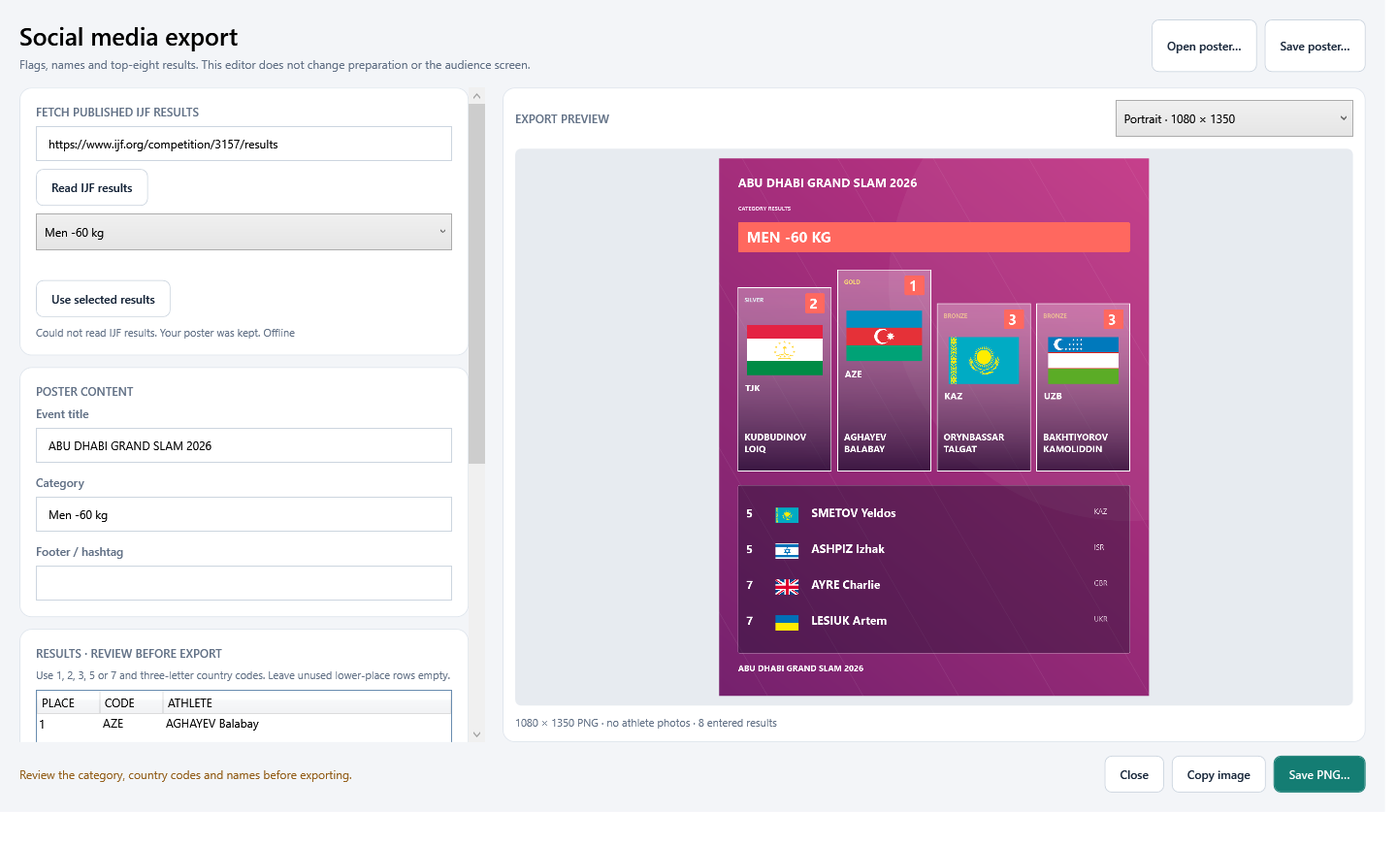
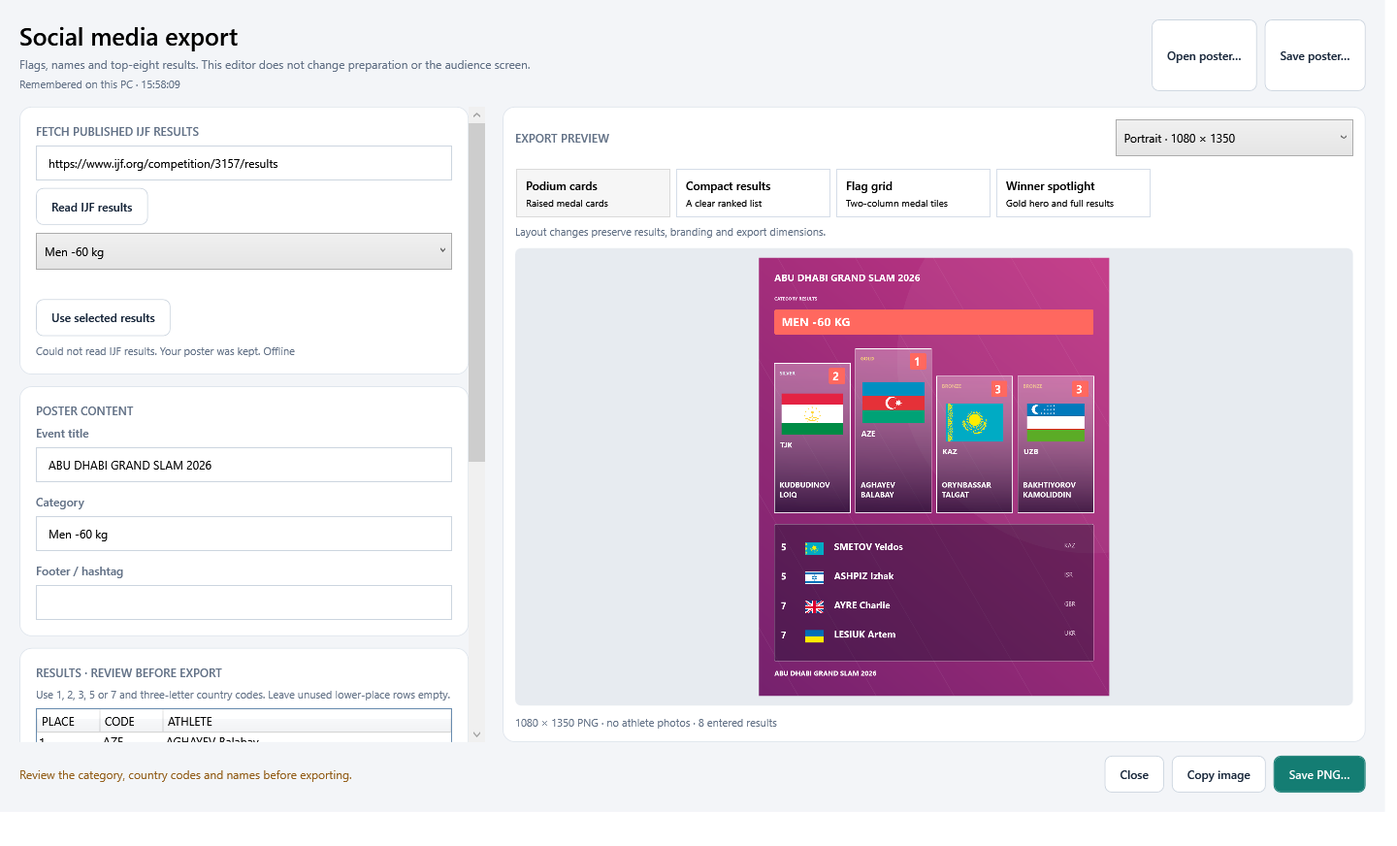
Publish v0.19 guide with remembered social posts and four layouts

diff --git a/README.md b/README.md
@@ -10,18 +10,18 @@
 </p>
 
 <p align="center">
-  <img alt="Version 0.17.0 Preview" src="https://img.shields.io/badge/version-0.17.0_Preview-C9A65A">
+  <img alt="Version 0.19.0 Preview" src="https://img.shields.io/badge/version-0.19.0_Preview-C9A65A">
   <img alt="Windows x64" src="https://img.shields.io/badge/platform-Windows_x64-132047">
   <img alt="Offline" src="https://img.shields.io/badge/operation-offline-147D73">
-  <img alt="582 software checks passed" src="https://img.shields.io/badge/software_checks-582_passed-147D73">
+  <img alt="668 software checks passed" src="https://img.shields.io/badge/software_checks-668_passed-147D73">
 </p>
 
 <p align="center">
-  <a href="https://github.com/YOUNESMAAFI/judo-ceremony-releases/releases/download/v0.17.0/JudoCeremony-0.17-win-x64.zip"><strong>Download for Windows</strong></a>
+  <a href="https://github.com/YOUNESMAAFI/judo-ceremony-releases/releases/download/v0.19.0/JudoCeremony-0.19-win-x64.zip"><strong>Download for Windows</strong></a>
   &nbsp; | &nbsp;
-  <a href="https://github.com/YOUNESMAAFI/judo-ceremony-releases/releases/tag/v0.17.0">Release notes &amp; downloads</a>
+  <a href="https://github.com/YOUNESMAAFI/judo-ceremony-releases/releases/tag/v0.19.0">Release notes &amp; downloads</a>
   &nbsp; | &nbsp;
-  <a href="https://github.com/YOUNESMAAFI/judo-ceremony-releases/releases/download/v0.17.0/Judo-Ceremony-0.7-Audit-Searchable.pdf">Searchable flag audit</a>
+  <a href="https://github.com/YOUNESMAAFI/judo-ceremony-releases/releases/download/v0.19.0/Judo-Ceremony-0.7-Audit-Searchable.pdf">Searchable flag audit</a>
 </p>
 
 ---
@@ -32,7 +32,7 @@ Judo Ceremony Desk gives the operator a preparation workspace and a separate cer
 
 | Capability | What you can do |
 | --- | --- |
-| Social media exports | Create portrait, square and story PNGs with flags, athlete names and top-eight results; no athlete photos. |
+| Social media exports | Four layouts in portrait, square and story formats, with flags, names and top-eight results; automatically remembered per event and category. No athlete photos. |
 | Athlete names | Fetch IJF medal athletes, review names and optionally include them in preparation images and social posters. Ceremony output always omits athlete names. |
 | Ceremony queue | Set the order for each day, load the next podium and mark ceremonies finished. |
 | Version checks | See the installed version and check for a newer published Windows build. |
@@ -51,7 +51,7 @@ Judo Ceremony Desk gives the operator a preparation workspace and a separate cer
 | Anthem playback | Play local instrumental recordings independently or link them to flag controls. |
 | Offline use | Use bundled flag artwork and the included Windows runtime without an internet connection. |
 
-**Version 0.17.0 is a preview for review and rehearsal.** Software checks and package checks pass; rehearse the actual event computer, HDMI screen and staff-image workflow before live use. Offline anthem playback is included, with separate controls and optional linking to flags.
+**Version 0.19.0 is a preview for review and rehearsal.** Software checks and package checks pass; rehearse the actual event computer, HDMI screen and staff-image workflow before live use. Offline anthem playback is included, with separate controls and optional linking to flags.
 
 ## Contents
 
@@ -63,20 +63,20 @@ Download the Windows ZIP below, extract the entire folder and open `JudoCeremony
 
 | File | Use |
 | --- | --- |
-| [JudoCeremony-0.17-win-x64.zip](https://github.com/YOUNESMAAFI/judo-ceremony-releases/releases/download/v0.17.0/JudoCeremony-0.17-win-x64.zip) | Complete portable Windows application, runtime, assets, examples and documentation. |
-| [Flags-PNG.zip](https://github.com/YOUNESMAAFI/judo-ceremony-releases/releases/download/v0.17.0/Flags-PNG.zip) | Individual horizontal and reference-backed vertical flag PNGs. |
-| [Searchable audit PDF](https://github.com/YOUNESMAAFI/judo-ceremony-releases/releases/download/v0.17.0/Judo-Ceremony-0.7-Audit-Searchable.pdf) | The flag reference review, differences table and full visual comparisons. |
-| [Release notes](https://github.com/YOUNESMAAFI/judo-ceremony-releases/releases/download/v0.17.0/RELEASE-NOTES.md) | Changes, compatibility and validation for this release. |
-| [README.md](https://github.com/YOUNESMAAFI/judo-ceremony-releases/releases/download/v0.17.0/README.md) | A downloadable copy of this guide. |
-| [Software check result](https://github.com/YOUNESMAAFI/judo-ceremony-releases/releases/download/v0.17.0/RELEASE-0.17-checks.txt) | Confirmation of the 582 passing software checks. |
-| [SHA256SUMS.txt](https://github.com/YOUNESMAAFI/judo-ceremony-releases/releases/download/v0.17.0/SHA256SUMS.txt) | SHA-256 hashes for the release downloads. |
+| [JudoCeremony-0.19-win-x64.zip](https://github.com/YOUNESMAAFI/judo-ceremony-releases/releases/download/v0.19.0/JudoCeremony-0.19-win-x64.zip) | Complete portable Windows application, runtime, assets, examples and documentation. |
+| [Flags-PNG.zip](https://github.com/YOUNESMAAFI/judo-ceremony-releases/releases/download/v0.19.0/Flags-PNG.zip) | Individual horizontal and reference-backed vertical flag PNGs. |
+| [Searchable audit PDF](https://github.com/YOUNESMAAFI/judo-ceremony-releases/releases/download/v0.19.0/Judo-Ceremony-0.7-Audit-Searchable.pdf) | The flag reference review, differences table and full visual comparisons. |
+| [Release notes](https://github.com/YOUNESMAAFI/judo-ceremony-releases/releases/download/v0.19.0/RELEASE-NOTES.md) | Changes, compatibility and validation for this release. |
+| [README.md](https://github.com/YOUNESMAAFI/judo-ceremony-releases/releases/download/v0.19.0/README.md) | A downloadable copy of this guide. |
+| [Software check result](https://github.com/YOUNESMAAFI/judo-ceremony-releases/releases/download/v0.19.0/RELEASE-0.19-checks.txt) | Confirmation of the 668 passing software checks. |
+| [SHA256SUMS.txt](https://github.com/YOUNESMAAFI/judo-ceremony-releases/releases/download/v0.19.0/SHA256SUMS.txt) | SHA-256 hashes for the release downloads. |
 
 **Platform:** Windows x64. Windows 11 x64 is the development and test platform. The application ZIP includes the .NET runtime; a separate .NET installation is not required for normal use.
 
 To check a downloaded file in PowerShell, run the command below and compare its hash with the matching entry in `SHA256SUMS.txt`:
 
 ```powershell
-Get-FileHash -Algorithm SHA256 .\JudoCeremony-0.17-win-x64.zip
+Get-FileHash -Algorithm SHA256 .\JudoCeremony-0.19-win-x64.zip
 ```
 
 ## Quick start
@@ -93,7 +93,7 @@ Sample tournament files are included in `examples`, including standard medals, a
 
 ## Workspaces
 
-The desk has six workspaces. Version 0.14 adds **6 Final block** for loading the known matchups and waiting for published medals.
+The desk has seven workspaces. **7 Create social post** follows **6 Final block** and keeps remembered posters organised by event and category.
 
 ### 1 · Preparation
 
@@ -149,6 +149,16 @@ Use **Refresh results**, or check **Refresh every 30 seconds while this tab is o
 
 Select a readable published category, review any unusual layout, and click **Prepare selected podium**. This fills Preparation. Load the prepared ceremony to the audience when ready. Unsupported draw formats or missing country codes require review; countries and medals are never guessed. Saved plans work offline; importing and refreshing require internet. See [full operation, limits and compatibility](docs/RELEASE-0.14.md).
 
+### 7 · Create social post
+
+Select a day and category, then **Create / edit social post…**. Results and poster settings are remembered automatically on this PC, separately for each event, division and category.
+
+![Social posts tab with remembered category results](images/social-posts-tab.png)
+
+Both category tables show **green for Ready** four-medal podiums and **grey for Partial or No results**. Fifth and seventh places are optional. A valid no-gold, two-silver podium can be green. Shorter podiums remain exportable.
+
+![Final-block category readiness colours](images/category-readiness.png)
+
 ## Run today's ceremony queue
 
 In **6 Final block**, choose **Today** or a dated day, then **Ceremony queue**. **Add this day** includes its scheduled categories; **Add preparation** adds a manually prepared podium. Use **Move up**, **Move down** and **Remove** to arrange the order. Adding a day twice does not duplicate it.
@@ -161,13 +171,13 @@ Statuses include Waiting, Ready, Review layout, Loaded, Playing, Paused, Awaitin
 
 ## Installed version and updates
 
-The title bar and **v0.17.0 · Updates** button identify the running build. Open the version window and choose **Check for updates**. It reads published Windows releases, including previews, and shows a newer version when available. Drafts and unrelated downloads are ignored.
+The title bar and **v0.19.0 · Updates** button identify the running build. Open the version window and choose **Check for updates**. It reads published Windows releases, including previews, and shows a newer version when available. Drafts and unrelated downloads are ignored.
 
-![Update dialog from v0.15; the same manual check is available in v0.17](images/version-updates.png)
+![Update dialog from v0.15; the same manual check is available in v0.19](images/version-updates.png)
 
 **Download newer version** opens the official release page in your browser. Close the older app, extract the new Windows ZIP and open its EXE. The check is manual, requires internet and does not install software. A failed check reports unavailable and retains its last successful check time. The window can remain open while you use the operator desk.
 
-See [complete operation, limits and compatibility](docs/RELEASE-0.17.md).
+See [complete operation, limits and compatibility](docs/RELEASE-0.19.md).
 
 ## Portable event backup
 
@@ -186,7 +196,7 @@ The manifest records the size and SHA-256 of the event and each included recordi
 
 ## Restore on another PC
 
-1. Install or extract Judo Ceremony Desk **0.17 or newer** on the other Windows PC.
+1. Install or extract Judo Ceremony Desk **0.19 or newer** on the other Windows PC.
 2. Select **Event backup… → Restore backup → Choose backup ZIP…**.
 3. Review the event, saved-category count and included recordings.
 4. Leave **Replace matching local recordings with backup versions** unchecked to keep existing local overrides. Identical recordings are kept automatically. If replacement is selected, it changes the shared recording for that country across events on that PC; stop the anthem and reset an active flag rise first.
@@ -202,7 +212,7 @@ Backups and expanded content are limited to **2 GB**, event JSON to **25 MB**, a
 
 An interrupted or failed export keeps any existing destination ZIP. A normal restore failure rolls back recording changes, the previous session and history index, and removes its partial new event. The source backup ZIP is never modified. If an external disk/permission problem also prevents rollback, the error identifies retained recovery copies rather than deleting them.
 
-Backups use **backup format 1** with a **schema 8** event. Schema 8 files require 0.16 or newer; use 0.17 for social exports and the audience-name restriction. Earlier supported backups remain readable. Separate `.judo-social.json` poster projects are not included in event backups. Ordinary tournament files do not contain imported audio files.
+Backups use **backup format 1** with a **schema 8** event. Schema 8 files require 0.16 or newer; use 0.19 for social exports and the audience-name restriction. Earlier supported backups remain readable. Separate `.judo-social.json` poster projects are not included in event backups. Ordinary tournament files do not contain imported audio files.
 
 ## Validation
 
@@ -249,7 +259,7 @@ Results require internet access to download. Applied countries, medals and saved
 
 ## Compatibility and verification
 
-Version 0.17 retains **schema 8** for event data. Schema 1–7 files still open with their migration defaults. Version 0.16 can read schema 8; versions earlier than 0.16 reject it. Use 0.17 to keep athlete names off ceremony output and to edit social posters. Athlete names are stored with medal results, saved categories and completed podiums. Top-eight poster results are saved separately in poster projects, not promoted into ceremony medals.
+Version 0.19 retains **schema 8** for event data. Schema 1–7 files still open with their migration defaults. Version 0.16 can read schema 8; versions earlier than 0.16 reject it. Use 0.19 to keep athlete names off ceremony output and to edit social posters. Athlete names are stored with medal results, saved categories and completed podiums. Top-eight poster results are saved separately in poster projects, not promoted into ceremony medals.
 
 Verification includes recorded public IJF result facts and structure, real live result import, aliases, same-country medals, both bronze entries, no-gold/two-silver and short podiums, missing/unknown/conflicting results, rejected links/redirects, save/reopen/category isolation, preview Apply/Cancel, readiness file tampering and preservation of loaded flags/audio. The recorded fixture contains 14 completed Dushanbe 2026 individual categories. Country, flag and anthem assets are unchanged from 0.11.
 
@@ -299,22 +309,22 @@ Importing requires internet access. Saved participation lists and continental fi
 
 Each event keeps its own region, participation restriction, selected countries, event details and import provenance. Importing details updates the current event; start **New event** first when importing a different tournament. The category presets can be replaced by the imported list while saved category results, the selected category, entered medals and the loaded audience ceremony remain intact. Categories missing from the overview are kept as they are. Review the suggested category group before saving; Senior is the default unless the title identifies Junior or Cadet. Categories within that event share the competition list. A new event starts Worldwide with no participants; reopening a historical event restores its own settings.
 
-Version 0.17 continues to save **schema 8**. Version 0.16 and newer can read that event format; 0.17 includes social exports and the audience-name restriction. Schema 1–7 files retain their existing migration support. Opening a 0.16 event disables its audience-name setting while preserving athlete data and the preparation-image setting. Close older versions before launching this build.
+Version 0.19 continues to save **schema 8**. Version 0.16 and newer can read that event format; 0.19 includes social exports and the audience-name restriction. Schema 1–7 files retain their existing migration support. Opening a 0.16 event disables its audience-name setting while preserving athlete data and the preparation-image setting. Close older versions before launching this build.
 
 
 ![Competition participant editor](images/competition-countries.png)
 
 ## Social media exports
 
-Choose **Preparation → Social export…**, beside Copy image. The separate editor starts with the prepared medal countries, names, event title, background image and logos. It can also be opened before a podium is prepared.
+Open **7 Create social post**, immediately after Final block. The **Preparation → Social export…** shortcut also takes you there. Choose a day and category, then **Create / edit social post…**. The editor restores a remembered poster first, otherwise starts with available category medals. You can enter results before a podium is prepared.
 
-![Social poster editor with the IJF link at the top](images/social-editor.png)
+![Social editor with layout choices and the IJF link](images/social-editor.png)
 
-1. Paste an IJF competition link at the top and choose **Read IJF results**.
-2. Select a published category, then **Use selected results** to fill the four medal entries and the two 5th/two 7th places. Reading alone retains your poster. The chosen event title stays unless it was blank.
-3. Review or edit the place, three-letter country code and athlete name in each row. Leave unused rows empty. **Include 5th and 7th places** controls the lower section.
-4. Choose a format and a **Magenta**, **Navy** or **Teal** palette. Edit the footer/hashtag or add a background image and logo.
-5. Choose **Copy image** or **Save PNG…**. The preview and saved file use the exact selected dimensions.
+1. Paste an IJF competition link and choose **Read IJF results**.
+2. Select a published category, then **Use selected results** to fill medal entries and available 5th/7th places. Review country codes, names and the source before exporting.
+3. Choose **Podium cards**, **Compact results**, **Flag grid** or **Winner spotlight** above the preview. Changing layouts keeps the entered results and branding. A no-gold spotlight shows the medallists without choosing a winner.
+4. Choose the dimensions, **Magenta**, **Navy** or **Teal** palette, footer/hashtag, background and logos. **Include 5th and 7th places** controls lower placings.
+5. Use **Copy image** or **Save PNG…** at the selected resolution.
 
 | Format | PNG dimensions |
 | --- | --- |
@@ -322,13 +332,19 @@ Choose **Preparation → Social export…**, beside Copy image. The separate edi
 | Square post | 1080 × 1080 |
 | Story | 1080 × 1920 |
 
-![Example portrait export with flags and top-eight results](images/social-portrait.png)
+![Example flag-grid portrait export](images/social-flag-grid.png)
 
-These are rehearsal illustrations. This version contains **no athlete photos**. The poster uses horizontal flag artwork and supports shorter or no-gold/two-silver podiums without inventing missing medals. Unknown countries, invalid medal counts, unpublished results and conflicting top-eight copies need correction or review before use. Long names may use an ellipsis visually; their full text remains editable.
+These images use illustrative rehearsal data. This version contains **no athlete photos**. Posters use horizontal flags and support shorter or no-gold/two-silver podiums. Unknown countries, conflicting top-eight copies and invalid rows require review. Fifth and seventh places never become ceremony medals.
 
-**Save poster…** stores a separate `.judo-social.json` project with all results, titles, format, theme, source/fetch metadata and embedded background/logo images, up to 25 MB. **Open poster…** restores it offline. Poster projects require 0.17 and are separate from event files and portable event backups; keep them alongside a backup when moving PCs. They contain athlete names.
+### Remembered results
 
-Editing or importing a social poster does not change Preparation, queue entries, the loaded ceremony or its anthem. Fifth and seventh places remain outside the ceremony medal list. See [social export operation and limits](docs/RELEASE-0.17.md).
+Valid edits save automatically on this PC, including results, layout, dimensions, footer and branding. The editor shows the saved time. Switching categories, reopening the editor or restarting restores that category's own poster. Different events and divisions remain separate. Partial and empty categories stay grey; four usable medal entries turn green, without requiring 5th/7th places.
+
+Invalid or incomplete edits retain the last valid saved poster. Remembered posts take priority over refreshed preparation/final-block data; use the editor's IJF import to deliberately update them. Applying another imported category saves it under that category. Editing the visible heading keeps the selected category's identity. **Open poster…** replaces the selected category's draft.
+
+**Save poster…** exports a separate `.judo-social.json` project with results, layout, titles, dimensions, source/fetch metadata and embedded artwork, up to 25 MB. Use it when moving PCs: remembered social posts and poster projects are **not included in event backups**. Saved format-2 projects need 0.18 or newer; format-1 projects still open. Files contain athlete names.
+
+Editing social posts does not change Preparation, queue entries, the loaded ceremony or its anthem. See [social posts, local storage and compatibility](docs/RELEASE-0.19.md).
 
 ## Optional athlete names
 
@@ -548,14 +564,15 @@ Event history stays on this computer. Export a tournament file to move one event
 | --- | --- |
 | Current event | `%LOCALAPPDATA%\JudoCeremony\last-tournament.json` |
 | Event history | `%LOCALAPPDATA%\JudoCeremony\events\` |
+| Remembered social posts | `%LOCALAPPDATA%\JudoCeremony\social-posts\` |
 
 If the current autosave cannot be read, the original is preserved in an `.invalid-...` recovery copy and the app reports the problem. Close older versions before starting another build; the session lock prevents simultaneous copies from writing to the same saved session.
 
 ### File compatibility
 
-Version 0.17 keeps **schema 8**, preserving athlete names, preparation-image settings, ceremony order, completed podiums, final-block plans, country filters, participant lists and per-category results. Versions earlier than 0.16 reject schema 8. Use 0.17 for social exports and the audience-name restriction.
+Version 0.19 keeps **schema 8**, preserving athlete names, preparation-image settings, ceremony order, completed podiums, final-block plans, country filters, participant lists and per-category results. Versions earlier than 0.16 reject schema 8. Use 0.19 for social exports and the audience-name restriction.
 
-Schema 1–7 events still open with their existing migration defaults; stored queue data and final-block plans are retained. Athlete names remain editable and available for preparation images, while ceremony output ignores any older enabled name setting. Social poster format 1 is a separate `.judo-social.json` file and requires 0.17.
+Schema 1–7 events still open with their existing migration defaults; stored queue data and final-block plans are retained. Athlete names remain editable and available for preparation images, while ceremony output ignores any older enabled name setting. Social poster format 2 is a separate `.judo-social.json` file and requires 0.18 or newer. Existing format-1 projects still open.
 
 ## Flag audit
 
@@ -574,7 +591,7 @@ The interface identifies selections outside the references for organizer review.
 
 The **16-page searchable PDF** includes a differences table with separate flag images, selectable text and the complete comparison sheets. Use **Ctrl+F** to find country names, codes or comparison results.
 
-The PDF describes the **0.7 flag audit**; the artwork is unchanged in 0.17. Its software-test count belongs to that earlier release. **Version 0.17 passed 582 software checks**, plus native launcher, fresh-start, migration, app-icon and all 442 reference-image hash checks.
+The PDF describes the **0.7 flag audit**; the artwork is unchanged in 0.19. Its software-test count belongs to that earlier release. **Version 0.19 passed 668 software checks**, plus native launcher, fresh-start, migration, app-icon and all 442 reference-image hash checks.
 
 Individual flag filenames use a three-letter code and full name, for example `TJK - Tajikistan.png`. The standalone archive contains **255 horizontal PNGs** and **221 vertical reference designs**. Source artwork resolution limits sharpness when enlarged; check the actual audience screen at event distance.
 
@@ -590,7 +607,7 @@ Individual flag filenames use a three-letter code and full name, for example `TJ
 | An audience change is missing from Copy image | Use Image visibility on Preparation for staff-image contents. |
 | The second monitor is missing | Check Windows Extend mode, the HDMI connection and the monitor's power; then refresh the display list. |
 | The restored screen is not moving | Blackout pauses playback. Press Play / Resume after restoring the picture. |
-| An older app rejects the event file | Schema 8 needs 0.16 or newer; use 0.17 for the current display behavior. Social poster projects require 0.17. |
+| An older app rejects the event file | Schema 8 needs 0.16 or newer; use 0.19 for the current display behavior. Format-2 social projects require 0.18 or newer. |
 | Finals are known but no medals appear | Choose Load event & wait. Final block shows the matchups unranked until published medals can be prepared. |
 | There is no anthem sound | Check the selected recording, volume and Windows default audio output; use Test sound. A missing track needs an imported MP3/WAV. |
 

diff --git a/docs/RELEASE-0.19.md b/docs/RELEASE-0.19.md
@@ -1,0 +1,23 @@
+# Judo Ceremony Desk 0.19 — social posts by category
+
+Open **7 Create social post**, immediately after **6 Final block**. The preparation **Social export…** shortcut also opens this tab. Select the competition day and category, then **Create / edit social post…** to open the editor. Choose Podium cards, Compact results, Flag grid or Winner spotlight; portrait, square and story formats remain available. Athlete photos are not used.
+
+The category tables in Final block and Create social post use the same colours:
+
+| Colour | Status | Meaning |
+| --- | --- | --- |
+| Green | Ready | Four usable medal entries, including a valid no-gold, two-silver podium. Fifth and seventh places are optional. |
+| Grey | Partial | Some published or entered results, but no complete four-medal podium. |
+| Grey | No results | No medal results yet. |
+
+A shorter podium can still be edited and exported; the colour is a readiness cue. Imported categories requiring review remain grey. Day buttons preserve separation of a competition's daily programme. Unscheduled categories are under **Schedule unavailable**.
+
+Valid editor changes are remembered automatically, including results, layout, dimensions, footer and branding. The editor displays the saved time. Reopening a category restores its own poster, and restarting the app retains it under the current event. Different events and divisions have separate records. Applying another category from the IJF importer saves that category separately. Editing the displayed heading does not rename the selected category's record.
+
+Incomplete or invalid edits retain the last valid saved poster. Remembered posters take priority over newer preparation or final-block data; deliberately read and apply IJF results in the editor when updating them. Opening a poster file replaces the selected category's draft. Social edits do not change ceremony preparation, the queue or the audience display.
+
+Remembered posts are stored locally in `%LOCALAPPDATA%\JudoCeremony\social-posts`, separately from event files and portable event backups. Use **Save poster…** in the editor to transfer a project to another PC. A restored event backup is a new event copy and does not inherit the original event's locally remembered posts. Poster files remain format 2 (0.18 or newer); older format-1 projects still open. Tournament schema remains 8.
+
+Run `dist/JudoCeremony-0.19/JudoCeremony.exe` or **Start Judo Ceremony.cmd**. Keep the whole app folder together. Download the [v0.19.0 preview](https://github.com/YOUNESMAAFI/judo-ceremony-releases/releases/tag/v0.19.0).
+
+All **668 regression checks passed**. Validation covers actual WPF row colours, tab placement and editor access, automatic saving, immediate-close saving, switching categories and events, reopening the app, imported category identity, and preservation of ceremony data. Native launch and asset verification use isolated test data. Physical HDMI and venue audio rehearsal remain separate checks on event hardware.

diff --git a/docs/RELEASE-0.18.md b/docs/RELEASE-0.18.md
@@ -1,0 +1,26 @@
+# Judo Ceremony Desk 0.18 — social export layouts
+
+Open **Preparation → Social export…** and choose a layout above the preview. All four work with portrait **1080 × 1350**, square **1080 × 1080** and story **1080 × 1920** exports, every palette, event artwork, custom background/logo images and the optional fifth/seventh-place section.
+
+| Layout | Design |
+| --- | --- |
+| Podium cards | The original raised medal cards: silver, gold, then the two bronzes. |
+| Compact results | A ranked list with places, flags, athlete names and country codes. |
+| Flag grid | Medal tiles arranged in two columns, with lower places below. |
+| Winner spotlight | A large gold-medallist panel and a list of the remaining results. |
+
+Choosing a layout updates the preview and the image used by **Copy image** and **Save PNG**. It preserves results, selected format, theme, branding, footer and source metadata. Reading and applying IJF results preserves the chosen layout. The editor remains separate from event preparation, queue entries, anthems and the loaded ceremony.
+
+Winner spotlight uses the actual gold medal only. A no-gold podium shows **NO GOLD AWARDED** and its medal results instead of selecting an athlete as winner. Two silvers, shorter podiums and long names are supported. Athlete photos remain outside this version.
+
+## Saved posters
+
+Layout selection is saved in `.judo-social.json` projects using **poster format 2**. The 0.18 app opens existing format-1 projects in **Podium cards**, preserving the original design. Saving a poster upgrades it to format 2; **0.18 or newer** is needed to reopen that saved poster. Version 0.17 rejects the newer format rather than silently losing its layout choice.
+
+Event files remain schema 8 and the audience output continues to omit athlete names. The public download remains 0.17 until this local build is explicitly published.
+
+## Verification
+
+The focused social run passed **255 checks**, including all 12 layout/format combinations and saved PNG decoding, distinct designs, no-gold cases, short podiums, long names, lower-place visibility, layout persistence, older project migration, future-version file protection, editor selection and imported-result retention. Visual checks include portrait, square and story layouts and the no-gold spotlight. Reports and PNG examples are under `artifacts/checks-0.18-focused`.
+
+The native Windows package passed launch, empty startup, schema 8 migration, embedded icon, all 442 flag-reference hashes and all 146 anthem hashes. Its report is `artifacts/release-audit-0.18/package.json`. Build warnings concern an unavailable NuGet vulnerability-data feed; compilation completed with zero errors.

diff --git a/docs/RELEASE-0.18.1.md b/docs/RELEASE-0.18.1.md
@@ -1,0 +1,9 @@
+# Judo Ceremony Desk 0.18.1 — visible social editor entry
+
+Use the teal **Create social post…** button in the main top bar, beside the version button. It stays visible on every workspace, so the editor can be opened without finding the smaller button below the preparation preview. **Preparation → Social export…** remains available as well.
+
+The poster window shows **Podium cards**, **Compact results**, **Flag grid** and **Winner spotlight** above its preview. No prepared podium is required to open it; enter results or use the IJF link in the editor.
+
+Open `dist/JudoCeremony-0.18.1/JudoCeremony.exe`, or use **Start Judo Ceremony.cmd** to select this newest local build. Check that the title/version button shows **v0.18.1**. The public download remains 0.17 until a newer release is explicitly published.
+
+Focused checks verified the top-bar button at minimum window width on Preparation and Ceremony display, and clicking it opened the actual social editor. Existing layout, project persistence and event-independence checks passed. Reports and a screenshot are in `artifacts/checks-0.18.1-focused`. Event files remain schema 8 and saved poster projects remain format 2, requiring 0.18 or newer.
